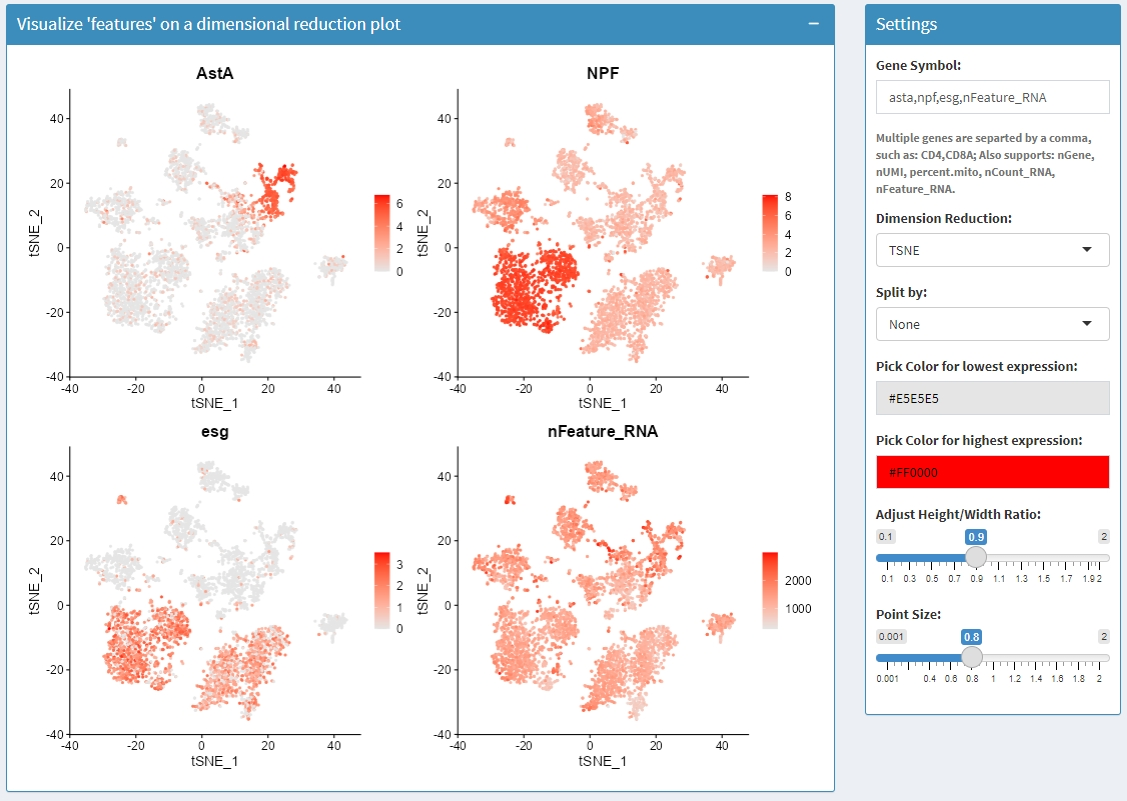
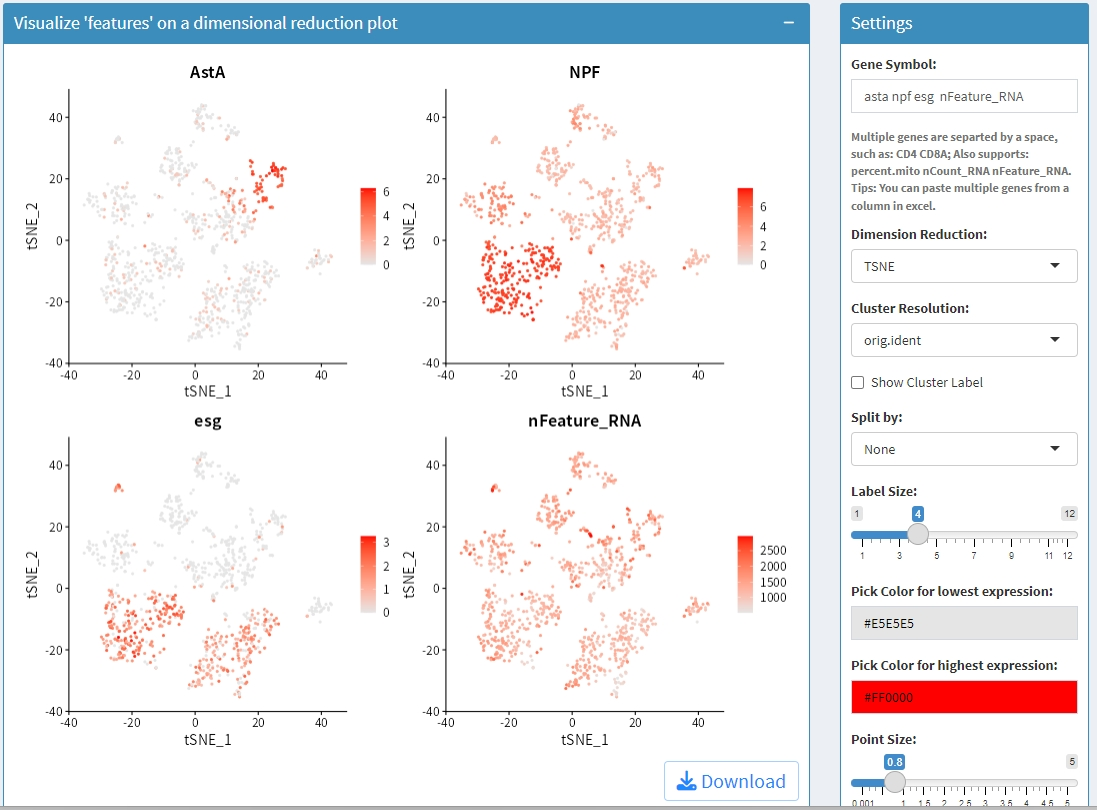
update readme

diff --git a/README.md b/README.md
@@ -9,12 +9,21 @@
 experimental](https://img.shields.io/badge/lifecycle-experimental-orange.svg)](https://lifecycle.r-lib.org/articles/stages.html#experimental)
 <!-- badges: end -->
 
+## 为什么做这个R包
+
+> 目前还没有很好的用于可视化Seurat分析结果的工具，当生物信息分析员将结果交给用户后，用户如果没有任何R语言基础，还是比较难去自行进行结果检索和再分析，这个R包可以帮助此类用户进行交互，实现分析结果的可视化，方便用户自行出图。用户仅需要在自己电脑上配置好R和Rstudio，然后安装运行此软件即可，无需其他操作。
+
+> **本质上就是把R包`Seurat`里的部分绘图工具和差异分析工具进行可视化！**
+
 > 此R包参考了开源程序[Hla-Lab/SeuratExplorer](https://github.com/rwcrocker/SeuratExplorer/).
 
 > An interactive R shiny application for exploring scRNAseq data
 > processed in Seurat
 
-> **本质上就是把R包`Seurat`里的部分绘图工具和差异分析工具进行可视化！**
+## A Live Demo
+
+Support Rds file size no more than 5GB.
+[Open](http://www.nibs.ac.cn:666/SeuratExplorer/)
 
 ## Installation
 
@@ -65,13 +74,15 @@ launchSeuratExplorer()
 
 - 支持调整点的大小
 
+- 支持pdf下载，所见即所得
+
 Example plots:
 
 <img src="inst/extdata/www/dimplot.png" width="100%" /><img src="inst/extdata/www/Dimplot-splited.png" width="100%" />
 
 ### FeaturePlot
 
-- 支持输入多个基因名，以逗号分割，基因名可不区分大小写。
+- 支持输入多个基因名，以空格分割，基因名可不区分大小写。支持从excel拷贝多个基因！
 
 - 支持选择Dimension Reductions
 
@@ -83,11 +94,13 @@ Example plots:
 
 - 支持调整点的大小
 
-<img src="inst/extdata/www/featureplot-1.png" width="100%" /><img src="inst/extdata/www/Featureplot-split.png" width="100%" />
+- 支持pdf下载，所见即所得
+
+<img src="inst/extdata/www/featureplot-1.png" width="100%" /><img src="inst/extdata/www/featureplot-1-with-label.png" width="100%" /><img src="inst/extdata/www/Featureplot-split.png" width="100%" />
 
 ### VlnPlot
 
-- 支持输入多个基因名，以逗号分割，基因名可不区分大小写。
+- 支持输入多个基因名，以空格分割，基因名可不区分大小写。支持从excel拷贝多个基因！
 
 - 支持选择不同的细胞分群方案
 
@@ -103,11 +116,13 @@ Example plots:
 
 - 支持调整图像长宽比
 
+- 支持pdf下载，所见即所得
+
 <img src="inst/extdata/www/Vlnplot-1.png" width="100%" /><img src="inst/extdata/www/Vlnplot-2.png" width="100%" /><img src="inst/extdata/www/vlnplot-splited-1.png" width="100%" /><img src="inst/extdata/www/vlnplot-splited-2.png" width="100%" />
 
 ### DotPlot
 
-- 支持输入多个基因名，以逗号分割，基因名可不区分大小写。
+- 支持输入多个基因名，以空格分割，基因名可不区分大小写。支持从excel拷贝多个基因！
 
 - 支持选择不同的细胞分群方案和指定所使用的clusters
 
@@ -123,11 +138,13 @@ Example plots:
 
 - 支持调整图像长宽比
 
+- 支持pdf下载，所见即所得
+
 <img src="inst/extdata/www/Dotplot-1.png" width="100%" /><img src="inst/extdata/www/dotplot-splited-1.png" width="100%" />
 
 ### DoHeatmap
 
-- 支持输入多个基因名，以逗号分割，基因名可不区分大小写。
+- 支持输入多个基因名，以空格分割，基因名可不区分大小写。支持从excel拷贝多个基因！
 
 - 支持选择不同的细胞分群方案
 
@@ -141,11 +158,13 @@ Example plots:
 
 - 支持调整图像长宽比
 
+- 支持pdf下载，所见即所得
+
 <img src="inst/extdata/www/Heatmap-1.png" width="100%" />
 
 ### RidgePlot
 
-- 支持输入多个基因名，以逗号分割，基因名可不区分大小写。
+- 支持输入多个基因名，以空格分割，基因名可不区分大小写。支持从excel拷贝多个基因！
 
 - 支持选择不同的细胞分群方案
 
@@ -156,6 +175,8 @@ Example plots:
 - 支持调整x轴和y轴label的字体大小
 
 - 支持调整图像长宽比
+
+- 支持pdf下载，所见即所得
 
 <img src="inst/extdata/www/ridgeplot-1.png" width="100%" /><img src="inst/extdata/www/Ridgeplot-2.png" width="100%" /><img src="inst/extdata/www/Ridgeplot-3.png" width="100%" />
 
@@ -172,15 +193,6 @@ Example plots:
 - 支持结果下载
 
 <img src="inst/extdata/www/DEGs-1.png" width="100%" /><img src="inst/extdata/www/DEGs-2.png" width="100%" /><img src="inst/extdata/www/DEGs-3.png" width="100%" /><img src="inst/extdata/www/DEGs-4.png" width="100%" />
-
-## A Live Demo
-
-Support Rds file size no more than 5GB.
-[Open](http://www.nibs.ac.cn:666/SeuratExplorer/)
-
-## 为什么做这个R包
-
-> 目前还没有很好的用于可视化Seurat分析结果的工具，当生物信息分析员将结果交给用户后，用户如果没有任何R语言基础，还是比较难去自行进行结果检索和再分析，这个R包可以帮助此类用户进行交互，实现分析结果的可视化，方便用户自行出图。用户仅需要在自己电脑上配置好R和Rstudio，然后安装运行此软件即可，无需其他操作。
 
 ## Session Info
 
